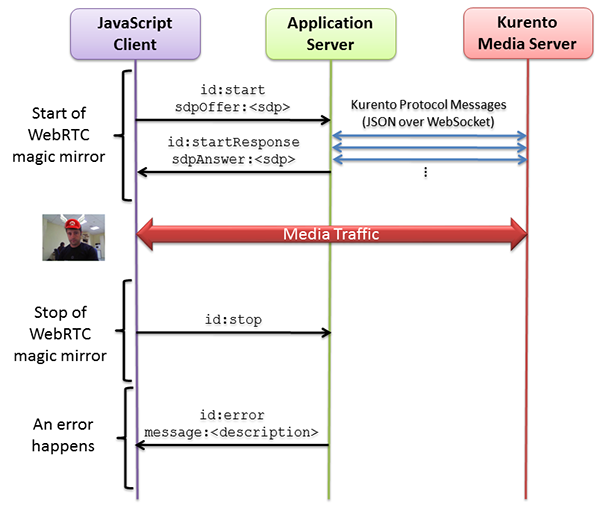
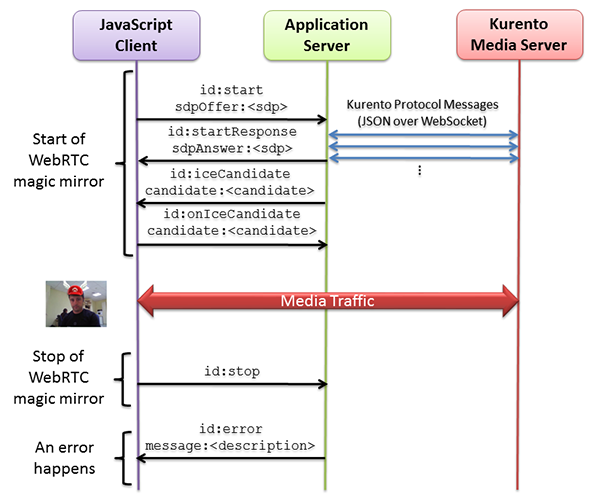
Updated Magic Mirror Java tutorial

Changed region(s): [[0.0, 0.0, 0.99, 0.99], [0.33, 0.03, 0.36, 0.09]]

diff --git a/source/tutorials/java/tutorial-2-magicmirror.rst b/source/tutorials/java/tutorial-2-magicmirror.rst
@@ -25,6 +25,17 @@ The web application starts on port 8080 in the localhost by default. Therefore,
 open the URL http://localhost:8080/ in a WebRTC compliant browser (Chrome,
 Firefox).
 
+.. note::
+
+   These instructions work only if Kurento Media Server is up and running in the same machine
+   than the tutorial. However, it is possible to locate the KMS in other machine simple adding
+   the argument ``kms.ws.uri`` to the Maven execution command, as follows:
+
+   .. sourcecode:: sh
+
+      mvn compile exec:java -Dkms.ws.uri=ws://kms_host:kms_port/kurento
+
+
 Understanding this example
 ==========================
 
@@ -87,11 +98,11 @@ the following picture:
 
    *One to one video call signaling protocol*
 
-As you can see in the diagram, an `SDP`:term: needs to be exchanged between
-client and server to establish the `WebRTC`:term: session between the browser
-and Kurento. Specifically, the SDP negotiation connects the WebRtcPeer at the
-browser with the WebRtcEndpoint at the server. The complete source code of this
-demo can be found in
+As you can see in the diagram, an :term:`SDP` and :term:`ICE` candidates needs
+to be exchanged between client and server to establish the :term:`WebRTC`
+session between the Kurento client and server. Specifically, the SDP
+negotiation connects the WebRtcPeer at the browser with the WebRtcEndpoint at
+the server. The complete source code of this demo can be found in
 `GitHub <https://github.com/Kurento/kurento-tutorial-java/tree/master/kurento-magic-mirror>`_.
 
 Application Server Side
@@ -132,6 +143,7 @@ In the following figure you can see a class diagram of the server side code:
 
    MagicMirrorApp -> MagicMirrorHandler;
    MagicMirrorApp -> KurentoClient;
+   MagicMirrorHandler -> UserSession;
    MagicMirrorHandler -> KurentoClient [constraint = false]
 
 The main class of this demo is named
@@ -150,7 +162,10 @@ location of your Kurento Media Server instance there.
    @EnableWebSocket
    @EnableAutoConfiguration
    public class MagicMirrorApp implements WebSocketConfigurer {
-   
+
+      final static String DEFAULT_KMS_WS_URI = "ws://localhost:8888/kurento";
+      final static String DEFAULT_APP_SERVER_URL = "http://localhost:8080";
+
       @Bean
       public MagicMirrorHandler handler() {
          return new MagicMirrorHandler();
@@ -158,9 +173,11 @@ location of your Kurento Media Server instance there.
    
       @Bean
       public KurentoClient kurentoClient() {
-         return KurentoClient.create("ws://localhost:8888/kurento");
+         return KurentoClient.create(System.getProperty("kms.ws.uri",
+               DEFAULT_KMS_WS_URI));
       }
    
+      @Override
       public void registerWebSocketHandlers(WebSocketHandlerRegistry registry) {
          registry.addHandler(handler(), "/magicmirror");
       }
@@ -185,28 +202,24 @@ WebSocket. In other words, it implements the server part of the signaling
 protocol depicted in the previous sequence diagram.
 
 In the designed protocol there are three different kinds of incoming messages to
-the *Server* : ``start`` and ``stop``. These messages are treated in the
-*switch* clause, taking the proper steps in each case.
+the *Server* : ``start``, ``onIceCandidates`` and ``stop``. These messages are
+treated in the *switch* clause, taking the proper steps in each case.
 
 .. sourcecode:: java
 
    public class MagicMirrorHandler extends TextWebSocketHandler {
    
-      private final Logger log = LoggerFactory
-            .getLogger(MagicMirrorHandler.class);
+      private final Logger log = LoggerFactory.getLogger(MagicMirrorHandler.class);
       private static final Gson gson = new GsonBuilder().create();
    
-      private ConcurrentHashMap<String, MediaPipeline> pipelines = 
-            new ConcurrentHashMap<String, MediaPipeline>();
+      private final ConcurrentHashMap<String, UserSession> users = new ConcurrentHashMap<String, UserSession>();
    
       @Autowired
       private KurentoClient kurento;
    
       @Override
-      public void handleTextMessage(WebSocketSession session, TextMessage message)
-            throws Exception {
-         JsonObject jsonMessage = gson.fromJson(message.getPayload(),
-               JsonObject.class);
+      public void handleTextMessage(WebSocketSession session, TextMessage message) throws Exception {
+         JsonObject jsonMessage = gson.fromJson(message.getPayload(), JsonObject.class);
    
          log.debug("Incoming message: {}", jsonMessage);
    
@@ -214,19 +227,26 @@ the *Server* : ``start`` and ``stop``. These messages are treated in the
          case "start":
             start(session, jsonMessage);
             break;
-   
-         case "stop":
-            String sessionId = session.getId();
-            if (pipelines.containsKey(sessionId)) {
-               pipelines.get(sessionId).release();
-               pipelines.remove(sessionId);
+         case "stop": {
+            UserSession user = users.remove(session.getId());
+            if (user != null) {
+               user.release();
             }
             break;
+         }
+         case "onIceCandidate": {
+            JsonObject jsonCandidate = jsonMessage.get("candidate").getAsJsonObject();
    
+            UserSession user = users.get(session.getId());
+            if (user != null) {
+               IceCandidate candidate = new IceCandidate(jsonCandidate.get("candidate").getAsString(),
+                     jsonCandidate.get("sdpMid").getAsString(), jsonCandidate.get("sdpMLineIndex").getAsInt());
+               user.addCandidate(candidate);
+            }
+            break;
+         }
          default:
-            sendError(session,
-                  "Invalid message with id "
-                        + jsonMessage.get("id").getAsString());
+            sendError(session, "Invalid message with id " + jsonMessage.get("id").getAsString());
             break;
          }
       }
@@ -240,26 +260,46 @@ the *Server* : ``start`` and ``stop``. These messages are treated in the
       }
    }
 
-In the following snippet, we can see the ``start`` method. It creates a Media
-Pipeline, creates the Media Elements (``WebRtcEndpoint`` and
-``FaceOverlayFilter``) and make the connections among them. A ``startResponse``
-message is sent back to the client with the SDP answer.
+In the following snippet, we can see the ``start`` method. It handles the ICE
+candidates gathering, creates a Media Pipeline, creates the Media Elements
+(``WebRtcEndpoint`` and ``FaceOverlayFilter``) and make the connections among
+them. A ``startResponse`` message is sent back to the client with the SDP
+answer.
 
 .. sourcecode:: java
 
-   private void start(WebSocketSession session, JsonObject jsonMessage) {
+   private void start(final WebSocketSession session, JsonObject jsonMessage) {
       try {
-         // Media Logic (Media Pipeline and Elements)
+         // User session
+         UserSession user = new UserSession();
          MediaPipeline pipeline = kurento.createMediaPipeline();
-         pipelines.put(session.getId(), pipeline);
+         user.setMediaPipeline(pipeline);
+         WebRtcEndpoint webRtcEndpoint = new WebRtcEndpoint.Builder(pipeline).build();
+         user.setWebRtcEndpoint(webRtcEndpoint);
+         users.put(session.getId(), user);
 
-         WebRtcEndpoint webRtcEndpoint = new WebRtcEndpoint.Builder(pipeline)
-               .build();
-         FaceOverlayFilter faceOverlayFilter = new FaceOverlayFilter.Builder(
-               pipeline).build();
-         faceOverlayFilter.setOverlayedImage(
-               "http://files.kurento.org/imgs/mario-wings.png", -0.35F,
-               -1.2F, 1.6F, 1.6F);
+         // ICE candidates
+         webRtcEndpoint.addOnIceCandidateListener(new EventListener<OnIceCandidateEvent>() {
+            @Override
+            public void onEvent(OnIceCandidateEvent event) {
+               JsonObject response = new JsonObject();
+               response.addProperty("id", "iceCandidate");
+               response.add("candidate", JsonUtils.toJsonObject(event.getCandidate()));
+               try {
+                  synchronized (session) {
+                     session.sendMessage(new TextMessage(response.toString()));
+                  }
+               } catch (IOException e) {
+                  log.debug(e.getMessage());
+               }
+            }
+         });
+
+         // Media logic
+         FaceOverlayFilter faceOverlayFilter = new FaceOverlayFilter.Builder(pipeline).build();
+
+         String appServerUrl = System.getProperty("app.server.url", MagicMirrorApp.DEFAULT_APP_SERVER_URL);
+         faceOverlayFilter.setOverlayedImage(appServerUrl + "/img/mario-wings.png", -0.35F, -1.2F, 1.6F, 1.6F);
 
          webRtcEndpoint.connect(faceOverlayFilter);
          faceOverlayFilter.connect(webRtcEndpoint);
@@ -268,11 +308,16 @@ message is sent back to the client with the SDP answer.
          String sdpOffer = jsonMessage.get("sdpOffer").getAsString();
          String sdpAnswer = webRtcEndpoint.processOffer(sdpOffer);
 
-         // Sending response back to client
          JsonObject response = new JsonObject();
          response.addProperty("id", "startResponse");
          response.addProperty("sdpAnswer", sdpAnswer);
-         session.sendMessage(new TextMessage(response.toString()));
+
+         synchronized (session) {
+            session.sendMessage(new TextMessage(response.toString()));
+         }
+
+         webRtcEndpoint.gatherCandidates();
+
       } catch (Throwable t) {
          sendError(session, t.getMessage());
       }
@@ -313,11 +358,11 @@ web page, and are used in the
 In the following snippet we can see the creation of the WebSocket (variable
 ``ws``) in the path ``/magicmirror``. Then, the ``onmessage`` listener of the
 WebSocket is used to implement the JSON signaling protocol in the client-side.
-Notice that there are four incoming messages to client: ``startResponse`` and
-``error``. Convenient actions are taken to implement each step in the
-communication. For example, in functions ``start`` the function
-``WebRtcPeer.startSendRecv`` of *kurento-utils.js* is used to start a WebRTC
-communication.
+Notice that there are three incoming messages to client: ``iceCandidate``,
+``startResponse`` and ``error``. Convenient actions are taken to implement each
+step in the communication. For example, in functions ``start`` the function
+``WebRtcPeer.WebRtcPeerSendrecv`` of *kurento-utils.js* is used to start a
+WebRTC communication.
 
 .. sourcecode:: javascript
 
@@ -335,13 +380,21 @@ communication.
          if (state == I_AM_STARTING) {
             setState(I_CAN_START);
          }
-         console.error("Error message from server: " + parsedMessage.message);
+         onError("Error message from server: " + parsedMessage.message);
          break;
+      case 'iceCandidate':
+          webRtcPeer.addIceCandidate(parsedMessage.candidate, function (error) {
+            if (error) {
+               console.error("Error adding candidate: " + error);
+               return;
+            }
+          });
+          break;
       default:
          if (state == I_AM_STARTING) {
             setState(I_CAN_START);
          }
-         console.error('Unrecognized message', parsedMessage);
+         onError('Unrecognized message', parsedMessage);
       }
    }
 
@@ -352,8 +405,19 @@ communication.
       showSpinner(videoInput, videoOutput);
    
       console.log("Creating WebRtcPeer and generating local sdp offer ...");
-      webRtcPeer = 
-         kurentoUtils.WebRtcPeer.startSendRecv(videoInput, videoOutput, onOffer, onError);
+
+       var options = {
+            localVideo: videoInput,
+            remoteVideo: videoOutput,
+            onicecandidate: onIceCandidate
+          }
+      webRtcPeer = new kurentoUtils.WebRtcPeer.WebRtcPeerSendrecv(options,
+         function (error) {
+           if (error) {
+              return console.error(error);
+           }
+           webRtcPeer.generateOffer(onOffer);
+         });
    }
 
    function onOffer(offerSdp) {
@@ -365,38 +429,45 @@ communication.
       sendMessage(message);
    }
 
-   function onError(error) {
-      console.error(error);
+   function onIceCandidate(candidate) {
+        console.log("Local candidate" + JSON.stringify(candidate));
+
+        var message = {
+          id: 'onIceCandidate',
+          candidate: candidate
+        };
+        sendMessage(message);
    }
 
 Dependencies
 ============
 
 This Java Spring application is implemented using `Maven`:term:. The relevant
-part of the *pom.xml* is where Kurento dependencies are declared. As the
-following snippet shows, we need two dependencies: the Kurento Client Java
-dependency (*kurento-client*) and the JavaScript Kurento utility library
-(*kurento-utils*) for the client-side:
+part of the
+`pom.xml <https://github.com/Kurento/kurento-tutorial-java/blob/master/kurento-magic-mirror/pom.xml>`_
+is where Kurento dependencies are declared. As the following snippet shows, we
+need two dependencies: the Kurento Client Java dependency (*kurento-client*)
+and the JavaScript Kurento utility library (*kurento-utils*) for the
+client-side:
 
 .. sourcecode:: xml 
+
+   <parent>
+      <groupId>org.kurento</groupId>
+      <artifactId>kurento-parent-pom</artifactId>
+      <version>|CLIENT_JAVA_VERSION|</version>
+   </parent>
 
    <dependencies> 
       <dependency>
          <groupId>org.kurento</groupId>
          <artifactId>kurento-client</artifactId>
-         <version>[5.0.0,6.0.0)</version>
       </dependency> 
       <dependency> 
          <groupId>org.kurento</groupId>
          <artifactId>kurento-utils-js</artifactId> 
-         <version>[5.0.0,6.0.0)</version>
       </dependency> 
    </dependencies>
-
-Kurento framework uses `Semantic Versioning`:term: for releases. Notice that
-range ``[5.0.0,6.0.0)`` downloads the latest version of Kurento artefacts from
-Maven Central in version 5 (i.e. 5.x.x). Major versions are released when
-incompatible changes are made.
 
 .. note::
 
@@ -411,3 +482,16 @@ properties section:
 
    <maven.compiler.target>1.7</maven.compiler.target>
    <maven.compiler.source>1.7</maven.compiler.source>
+
+Browser dependencies (i.e. *bootstrap*, *ekko-lightbox*, and *adapter.js*) are
+handled with :term:`Bower`. This dependencies are defined in the file
+`bower.json <https://github.com/Kurento/kurento-tutorial-java/blob/master/kurento-magic-mirror/bower.json>`_.
+The command ``bower install`` is automatically called from Maven. Thus, Bower
+should be present in your system. It can be installed in an Ubuntu machine as
+follows:
+
+.. sourcecode:: sh
+
+   curl -sL https://deb.nodesource.com/setup | sudo bash -
+   sudo apt-get install -y nodejs
+   sudo npm install -g bower
